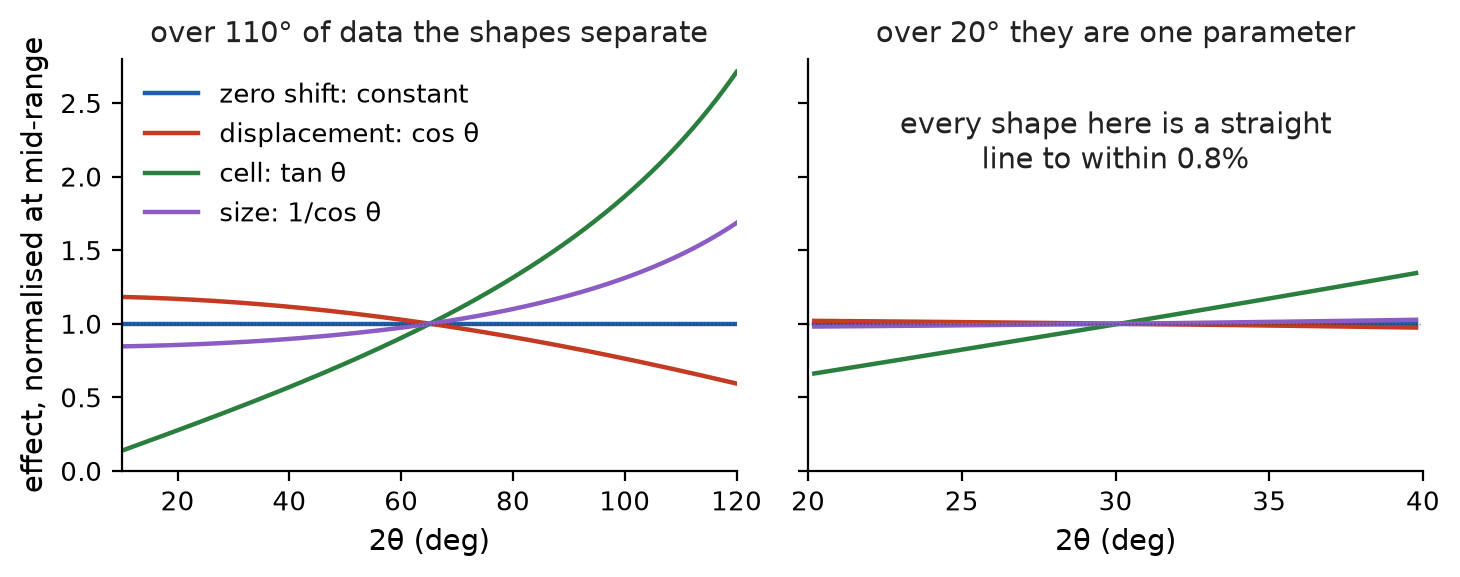
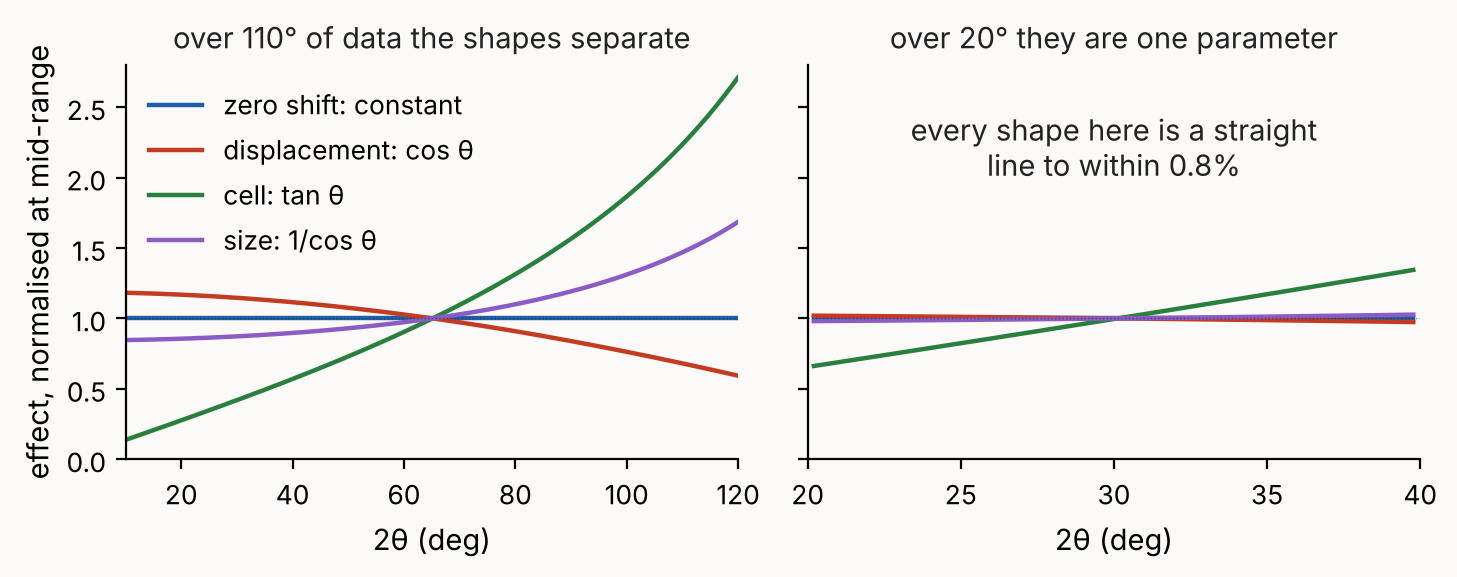
WP-2021: light figures on the page's own ground, all sixteen regenerated
Claude-Session: https://claude.ai/code/session_019dgpT41JNuX8JxT7oBbgoz

diff --git a/docs/docs/make_figures.py b/docs/docs/make_figures.py
@@ -29,6 +29,7 @@ with the test that proves the claim, and nobody would find out.
 
 from __future__ import annotations
 
+import re
 import sys
 from pathlib import Path
 
@@ -40,6 +41,8 @@ import matplotlib.pyplot as plt  # noqa: E402  (after the backend is fixed)
 
 REPO_ROOT = Path(__file__).resolve().parent.parent.parent
 FIGURES = Path(__file__).resolve().parent / "figures"
+#: The site's colours (WP-2021), read for the light twin's ground.
+TOKENS = REPO_ROOT / "docs" / "landing" / "src" / "tokens.css"
 sys.path.insert(0, str(REPO_ROOT))
 
 import rietx as rx  # noqa: E402  (needs the repo on sys.path)
@@ -70,6 +73,12 @@ def _rc(style: str):
                              + [rc])
 
 
+def light_ground() -> str:
+    """The light page's colour, `--bg` in the token file's first (light) block."""
+    light = TOKENS.read_text(encoding="utf-8").split("@media", 1)[0]
+    return re.search(r"--bg:\s*(#[0-9a-fA-F]{6})", light).group(1)
+
+
 def _save(fig, stem: str, style: str) -> None:
     FIGURES.mkdir(parents=True, exist_ok=True)
     path = FIGURES / f"{stem}-{style}.png"
@@ -77,8 +86,18 @@ def _save(fig, stem: str, style: str) -> None:
     # fringe on any retina display, which is where the manual is read.
     # The dark twin is saved on a transparent ground: the theme's dark page is
     # not black, so an opaque figure sits on the page as a rectangle.
-    # The light twin keeps its white ground, because its type is dark and a
-    # transparent PNG opened anywhere dark would be unreadable.
+    # The light twin stays opaque, because its type is dark and a transparent
+    # PNG opened anywhere dark would be unreadable.  Its ground is the light
+    # page's own colour rather than white (WP-2021), so on the page it shows no
+    # edge: every white patch, the figure's, each panel's and each legend's,
+    # takes it, which reaches `plot_result`'s figures without touching them.
+    if style == "light":
+        ground = light_ground()
+        legends = [ax.get_legend() for ax in fig.axes] + list(fig.legends)
+        for patch in [fig.patch, *(ax.patch for ax in fig.axes),
+                      *(legend.get_frame() for legend in legends if legend)]:
+            if tuple(patch.get_facecolor()[:3]) == (1.0, 1.0, 1.0):
+                patch.set_facecolor(ground)
     fig.savefig(path, dpi=200, bbox_inches="tight", transparent=style == "dark")
     plt.close(fig)
     print(f"  {path.relative_to(REPO_ROOT)}")
